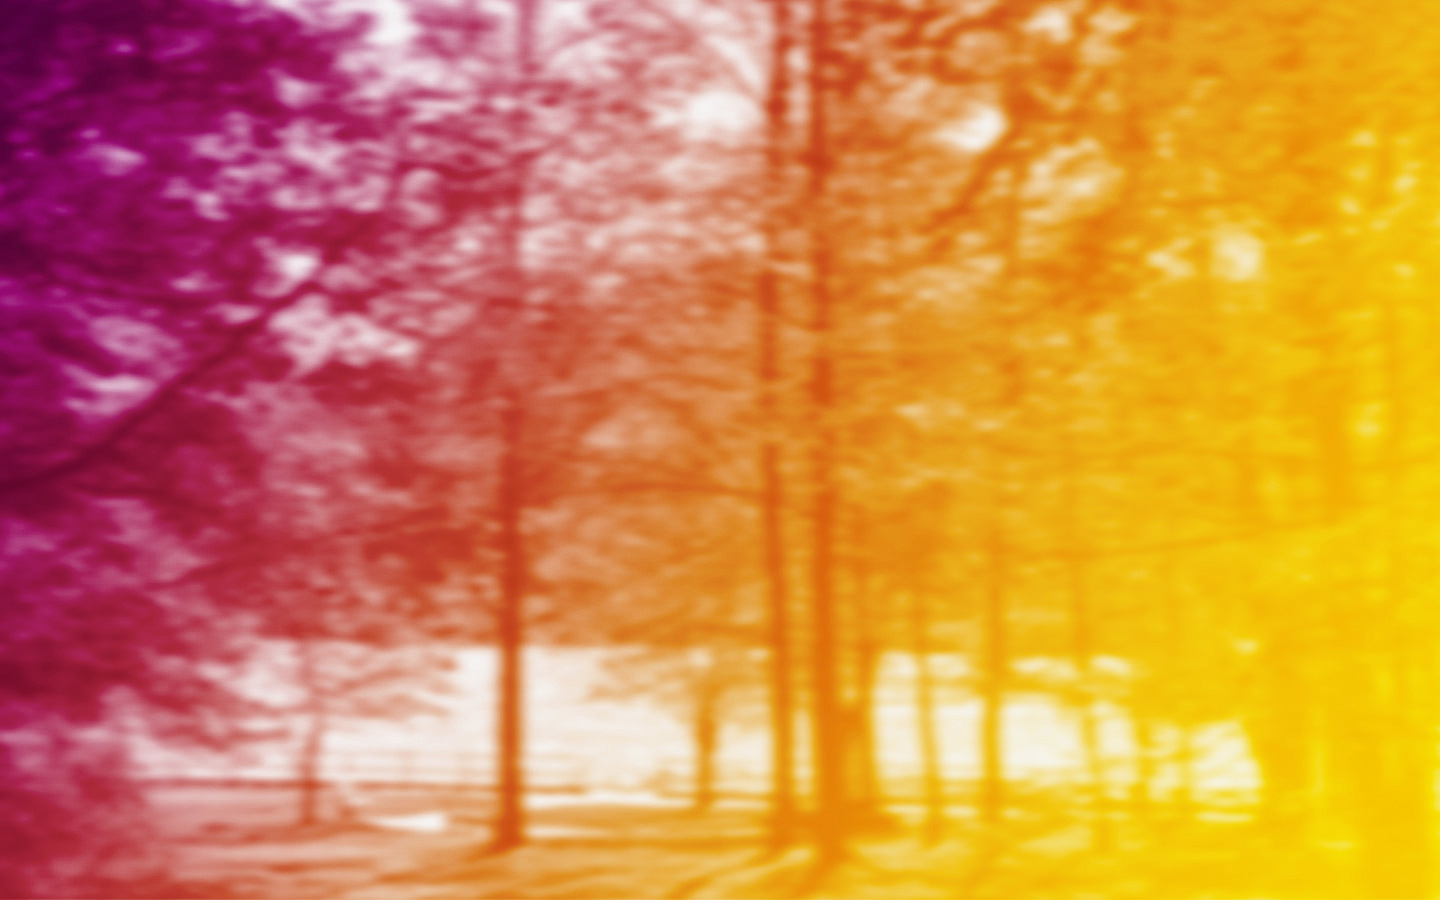
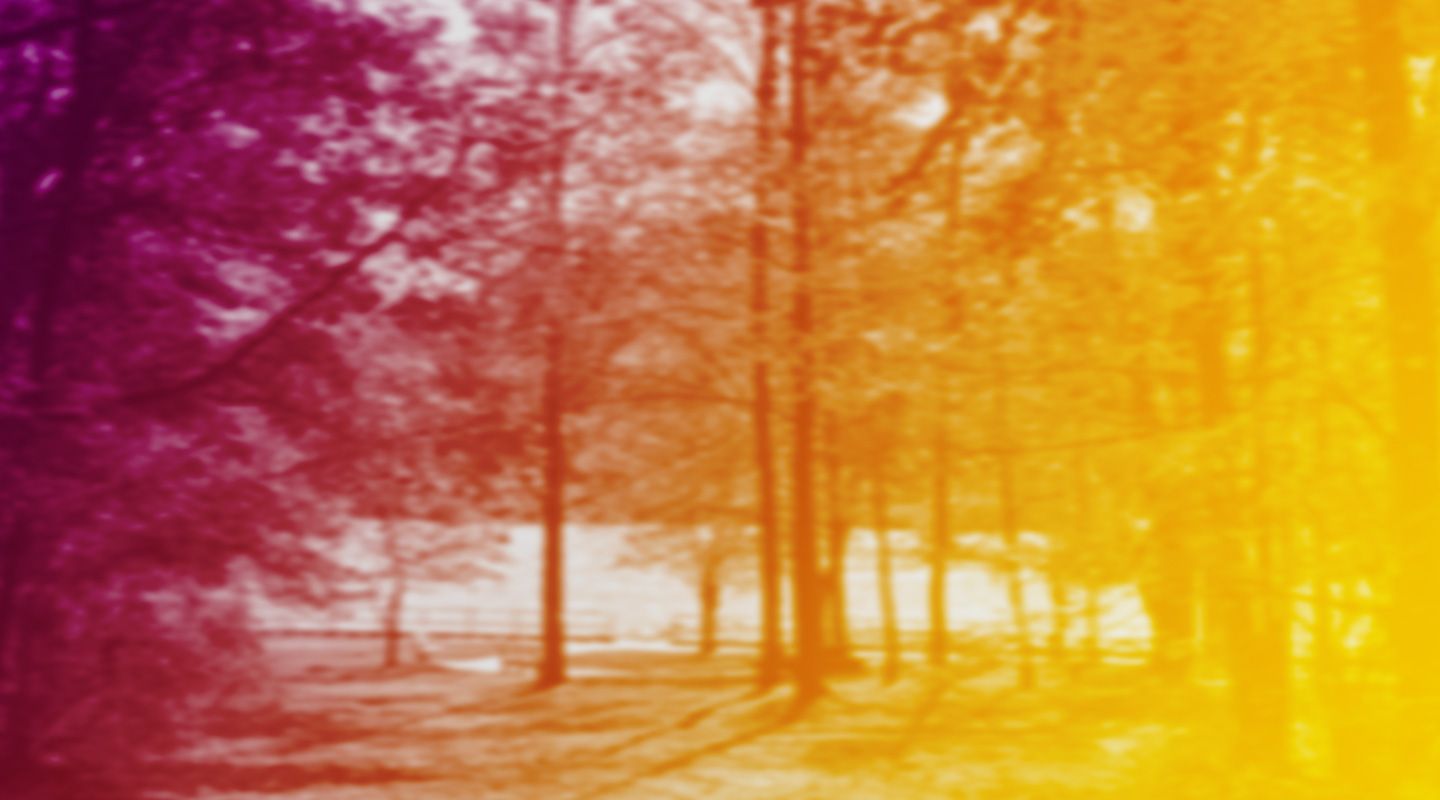
v1.1.2

diff --git a/index.html b/index.html
@@ -92,12 +92,13 @@
                 <div
                     class="parallax-bg1"
                     style="background-image:url(img/bg_forest.jpg)"
-                    data-swiper-parallax="-5%"
+                    data-swiper-parallax="-3%"
                 ></div>
                 <div
                     class="parallax-bg2"
                     style="background-image:url(img/seniors_person2.png)"
-                    data-swiper-parallax="-11%"
+                    data-swiper-parallax="-9%"
+                    data-swiper-parallax-scale="1.1"
                 ></div>
                 <div class="swiper-wrapper">
                     <div class="swiper-slide">

diff --git a/css/main.css b/css/main.css
@@ -392,6 +392,7 @@ a.brand {
 
 #topbanner p {
     color: white;
+    text-shadow: 2px 2px rgba(0, 0, 0, 0.15);
     font-size: 22px;
 }
 
@@ -401,18 +402,17 @@ a.brand {
     top: 0;
     width: 130%;
     height: 100%;
+    background-position: center bottom;
     background-repeat: no-repeat;
 }
 
 #topbanner .parallax-bg1{
     background-size: cover;
-    background-position: center top;
     z-index: 1;
 }
 
 #topbanner .parallax-bg2{
     background-size: 605px 700px;
-    background-position: center bottom;
     z-index: 2;
 }
 
